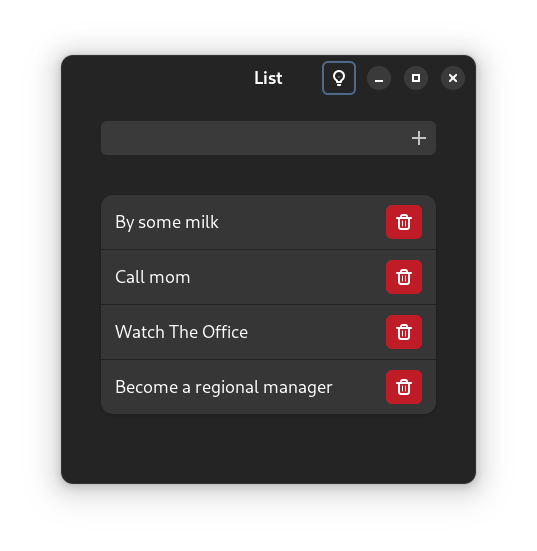
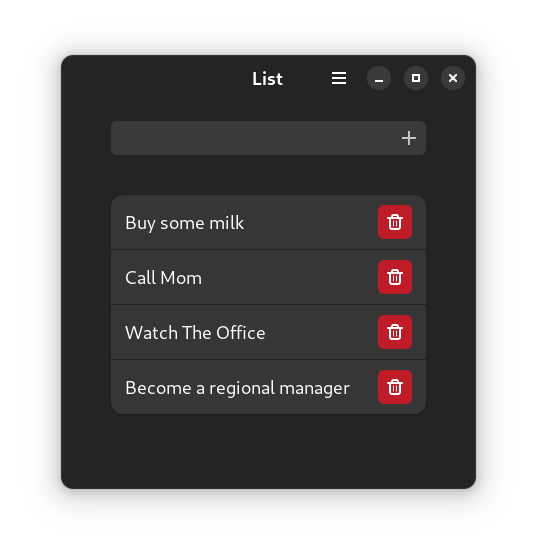
Add menu with theme switcher

diff --git a/src/main.c b/src/main.c
@@ -1,12 +1,16 @@
 #include <adwaita.h>
 
 #define APP_ID "io.github.mrvladus.List"
-#define VERSION "44.0.2"
+#define VERSION "44.1"
 
 // ---------- Functions defenition ---------- //
 
 GtkWidget* HeaderBar();
-void InfoBtnClicked();
+GtkWidget* MainMenu();
+GtkWidget* ThemeSwitcher();
+void ThemeSwitcherToggle(GtkCheckButton* btn, int theme);
+void ActionAbout();
+void ActionQuit();
 GtkWidget* Entry();
 void EntryActivated(GtkEntry* entry);
 GtkWidget* TodoList();
@@ -27,16 +31,95 @@ GtkWidget* HeaderBar()
 {
     GtkWidget* hb = gtk_header_bar_new();
     gtk_widget_add_css_class(hb, "flat");
-
-    GtkWidget* info_btn = gtk_button_new_from_icon_name("dialog-information-symbolic");
-    g_signal_connect(info_btn, "clicked", G_CALLBACK(InfoBtnClicked), NULL);
-    gtk_header_bar_pack_end(GTK_HEADER_BAR(hb), info_btn);
+    gtk_header_bar_pack_end(GTK_HEADER_BAR(hb), MainMenu());
 
     return hb;
 }
 
-// Show about window on info button click
-void InfoBtnClicked()
+GtkWidget* MainMenu()
+{
+    // Create menu model
+    GMenu* main_menu = g_menu_new();
+    // Create theme submenu
+    GMenu* theme_menu = g_menu_new();
+    g_menu_append_submenu(main_menu, "Theme", G_MENU_MODEL(theme_menu));
+
+    // Create custom theme menu item
+    GMenuItem* theme = g_menu_item_new("Theme", NULL);
+    g_menu_item_set_attribute(theme, "custom", "s", "theme");
+    g_menu_append_item(theme_menu, theme);
+
+    // Create popover menu with model of main_menu
+    GtkWidget* popover = gtk_popover_menu_new_from_model(G_MENU_MODEL(main_menu));
+    // Add theme switcher widget to theme submenu
+    gtk_popover_menu_add_child(GTK_POPOVER_MENU(popover), ThemeSwitcher(), "theme");
+
+    // About menu item
+    g_menu_append(main_menu, "About", "app.about");
+    GSimpleAction* action = g_simple_action_new("about", NULL);
+    g_signal_connect(action, "activate", G_CALLBACK(ActionAbout), NULL);
+    g_action_map_add_action(G_ACTION_MAP(app), G_ACTION(action));
+
+    // Quit menu item
+    g_menu_append(main_menu, "Quit", "app.quit");
+    action = g_simple_action_new("quit", NULL);
+    g_signal_connect(action, "activate", G_CALLBACK(ActionQuit), NULL);
+    g_action_map_add_action(G_ACTION_MAP(app), G_ACTION(action));
+    gtk_application_set_accels_for_action(GTK_APPLICATION(app), "app.quit",
+        (const char*[]) { "<Primary>Q", NULL });
+
+    // Menu button
+    GtkWidget* menu_btn = gtk_menu_button_new();
+    g_object_set(G_OBJECT(menu_btn),
+        "icon-name", "open-menu-symbolic",
+        "popover", popover,
+        NULL);
+
+    return menu_btn;
+}
+
+GtkWidget* ThemeSwitcher()
+{
+    GtkWidget* system_theme = gtk_check_button_new_with_label("System");
+    g_signal_connect(system_theme, "toggled", G_CALLBACK(ThemeSwitcherToggle), (gpointer)0);
+
+    GtkWidget* light_theme = gtk_check_button_new_with_label("Light");
+    gtk_check_button_set_group(GTK_CHECK_BUTTON(light_theme), GTK_CHECK_BUTTON(system_theme));
+    g_signal_connect(light_theme, "toggled", G_CALLBACK(ThemeSwitcherToggle), (gpointer)1);
+
+    GtkWidget* dark_theme = gtk_check_button_new_with_label("Dark");
+    gtk_check_button_set_group(GTK_CHECK_BUTTON(dark_theme), GTK_CHECK_BUTTON(system_theme));
+    g_signal_connect(dark_theme, "toggled", G_CALLBACK(ThemeSwitcherToggle), (gpointer)4);
+
+    // Set switcher button active depending on settings
+    int theme = g_settings_get_int(settings, "theme");
+    if (theme == 0) {
+        gtk_check_button_set_active(GTK_CHECK_BUTTON(system_theme), TRUE);
+    } else if (theme == 1) {
+        gtk_check_button_set_active(GTK_CHECK_BUTTON(light_theme), TRUE);
+    } else if (theme == 4) {
+        gtk_check_button_set_active(GTK_CHECK_BUTTON(dark_theme), TRUE);
+    }
+    // Set app theme
+    ThemeSwitcherToggle(NULL, theme);
+
+    GtkWidget* box = gtk_box_new(GTK_ORIENTATION_VERTICAL, 0);
+    gtk_box_append(GTK_BOX(box), system_theme);
+    gtk_box_append(GTK_BOX(box), light_theme);
+    gtk_box_append(GTK_BOX(box), dark_theme);
+
+    return box;
+}
+
+void ThemeSwitcherToggle(GtkCheckButton* btn, int theme)
+{
+    AdwStyleManager* mgr = adw_style_manager_get_default();
+    adw_style_manager_set_color_scheme(mgr, theme);
+    g_settings_set_int(settings, "theme", theme);
+}
+
+// Show about window
+void ActionAbout()
 {
     adw_show_about_window(
         gtk_application_get_active_window(GTK_APPLICATION(app)),
@@ -49,14 +132,22 @@ void InfoBtnClicked()
         NULL);
 }
 
+// Exit application
+void ActionQuit()
+{
+    g_application_quit(G_APPLICATION(app));
+}
+
 // ---------- Todo entry field ---------- //
 
 GtkWidget* Entry()
 {
     GtkWidget* entry = gtk_entry_new();
-    g_object_set(G_OBJECT(entry), "secondary-icon-name", "list-add-symbolic", NULL);
-    g_object_set(G_OBJECT(entry), "margin-start", 30, NULL);
-    g_object_set(G_OBJECT(entry), "margin-end", 30, NULL);
+    g_object_set(G_OBJECT(entry),
+        "secondary-icon-name", "list-add-symbolic",
+        "margin-start", 50,
+        "margin-end", 50,
+        NULL);
     g_signal_connect(entry, "activate", G_CALLBACK(EntryActivated), NULL);
 
     return entry;
@@ -94,12 +185,14 @@ GtkWidget* TodoList()
 {
     todos_list = gtk_list_box_new();
     gtk_widget_add_css_class(todos_list, "boxed-list");
-    g_object_set(G_OBJECT(todos_list), "valign", GTK_ALIGN_START, NULL);
-    g_object_set(G_OBJECT(todos_list), "selection-mode", 0, NULL);
-    g_object_set(G_OBJECT(todos_list), "margin-top", 20, NULL);
-    g_object_set(G_OBJECT(todos_list), "margin-bottom", 20, NULL);
-    g_object_set(G_OBJECT(todos_list), "margin-start", 40, NULL);
-    g_object_set(G_OBJECT(todos_list), "margin-end", 40, NULL);
+    g_object_set(G_OBJECT(todos_list),
+        "valign", GTK_ALIGN_START,
+        "selection-mode", 0,
+        "margin-top", 20,
+        "margin-bottom", 20,
+        "margin-start", 50,
+        "margin-end", 50,
+        NULL);
     // Fill new ones from gsettings
     g_auto(GStrv) todos = g_settings_get_strv(settings, "todos");
     for (int i = 0; todos[i]; i++) {
@@ -108,8 +201,10 @@ GtkWidget* TodoList()
     UpdateTodoListVisibility();
     // Add list to the scrolled container
     GtkWidget* scrolled_win = gtk_scrolled_window_new();
-    g_object_set(G_OBJECT(scrolled_win), "vexpand", TRUE, NULL);
-    g_object_set(G_OBJECT(scrolled_win), "hexpand", TRUE, NULL);
+    g_object_set(G_OBJECT(scrolled_win),
+        "vexpand", TRUE,
+        "hexpand", TRUE,
+        NULL);
     gtk_scrolled_window_set_child(GTK_SCROLLED_WINDOW(scrolled_win), todos_list);
 
     return scrolled_win;
